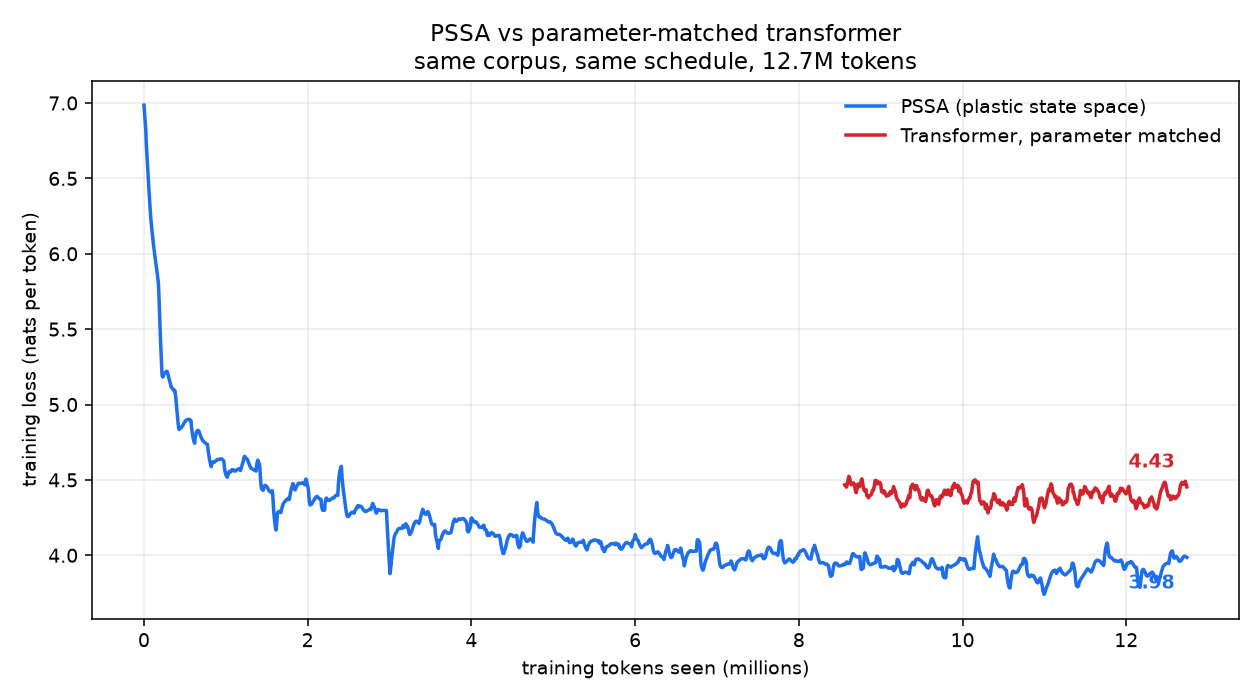
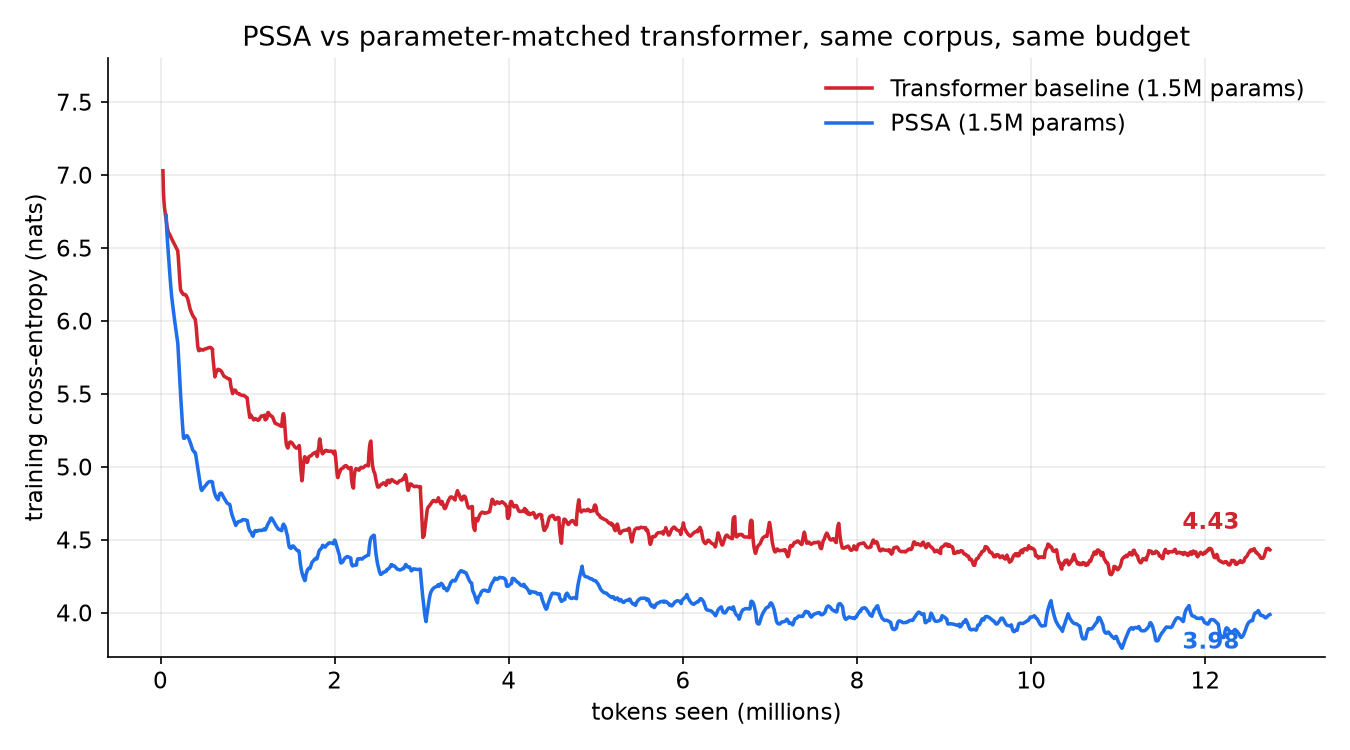
Rebuild loss curves with the full transformer run from the recovered logs

Changed region(s): [[0.0, 0.09, 0.9905, 0.99], [0.1548, 0.03, 0.9905, 0.21]]

diff --git a/README.md b/README.md
@@ -24,7 +24,7 @@ around 2M tokens in.
 
 The two curves never cross, and they never touch:
 
-![Overlap region, links 43 to 64](docs/img/loss-curve-zoom.png)
+![Overlap region, second half of training](docs/img/loss-curve-zoom.png)
 
 ### It holds on text neither model has seen
 
@@ -177,14 +177,14 @@ End-of-link training cross-entropy:
 
 | Link | Tokens seen | PSSA | Transformer |
 | --- | --- | --- | --- |
-| ck01 | 200,000 | 5.733 | not recorded |
-| ck05 | 1,000,000 | 4.617 | not recorded |
-| ck10 | 2,000,000 | 4.447 | not recorded |
-| ck15 | 3,000,000 | 4.292 | not recorded |
-| ck20 | 4,000,000 | 4.185 | not recorded |
-| ck25 | 5,000,000 | 4.221 | not recorded |
-| ck30 | 6,000,000 | 4.070 | not recorded |
-| ck35 | 7,000,000 | 4.039 | not recorded |
+| ck01 | 200,000 | 5.733 | 6.461 |
+| ck05 | 1,000,000 | 4.617 | 5.467 |
+| ck10 | 2,000,000 | 4.447 | 5.082 |
+| ck15 | 3,000,000 | 4.292 | 4.858 |
+| ck20 | 4,000,000 | 4.185 | 4.704 |
+| ck25 | 5,000,000 | 4.221 | 4.704 |
+| ck30 | 6,000,000 | 4.070 | 4.561 |
+| ck35 | 7,000,000 | 4.039 | 4.523 |
 | ck37 | 7,400,000 | 3.960 | 4.465 |
 | ck44 | 8,800,000 | 4.004 | 4.480 |
 | ck48 | 9,600,000 | 3.937 | 4.415 |
@@ -194,9 +194,9 @@ End-of-link training cross-entropy:
 | ck64 | 12,800,000 | 3.982 | 4.428 |
 
 The baseline's first session was cut at link 43 by the notebook session limit
-and its loss CSV did not survive, so links 1 to 36 and 38 to 43 have no recorded
-value; link 37 comes from the live run log. The chain resumed from `ck43` in a
-second session and finished all 64 links.
+and its loss CSV did not survive, so links 1 to 43 are read back from that
+session's own run log instead. The chain resumed from `ck43` in a second session
+and finished all 64 links, and both curves above now cover the full run.
 
 ### Throughput is not hardware-matched
 
